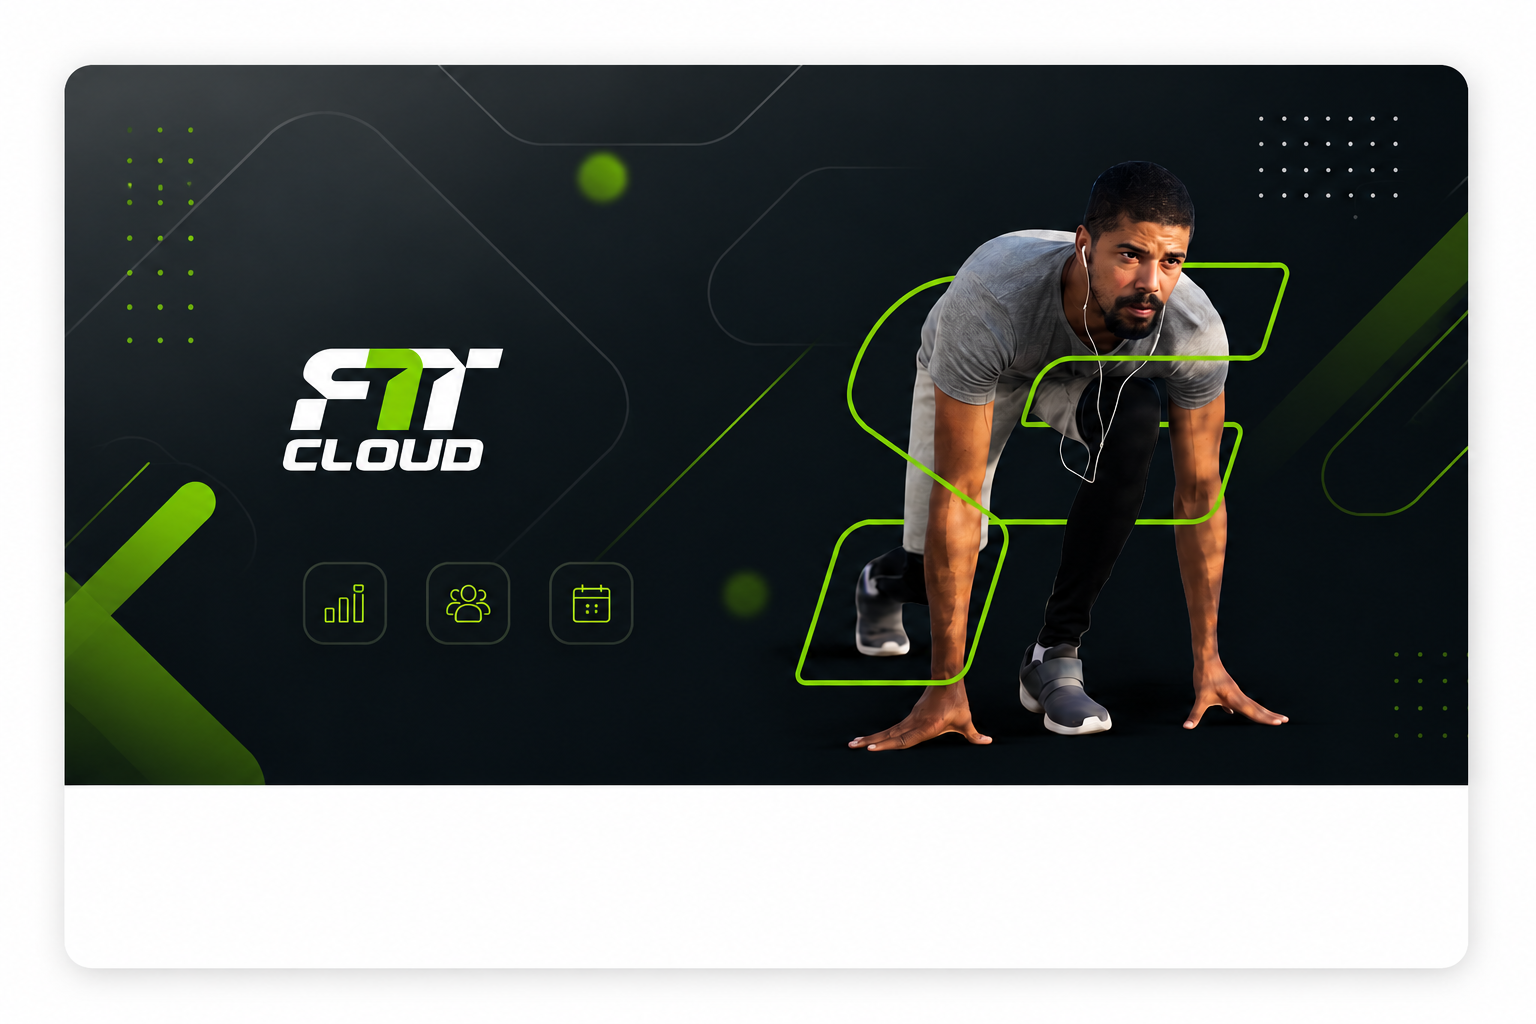
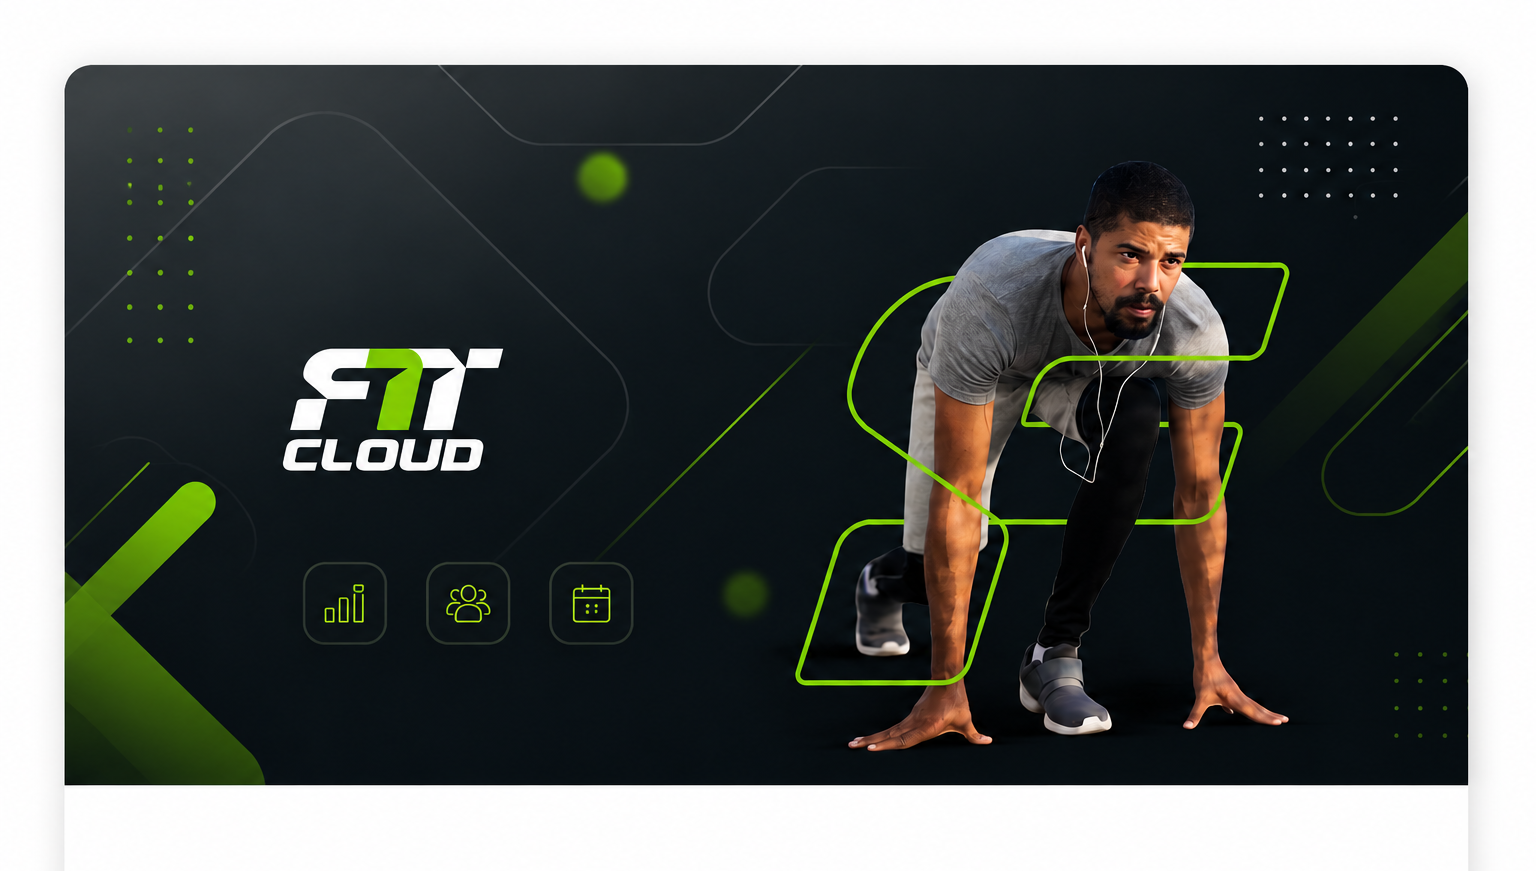
17-6-26

diff --git a/glint/glint/glint/index.html b/glint/glint/glint/index.html
@@ -649,6 +649,28 @@
     </div>
 
     <!-- 13 -->
+<div class="project-card">
+    <div class="project-image">
+        <img src="assets/img/work/ttz-academy.png" alt="TTZ Academy">
+    </div>
+
+    <div class="project-footer" onclick="toggleDetails(this)">
+        <h4>TTZ Academy - Learning Management System</h4>
+        <button class="project-expand-btn">
+            <i class="fal fa-angle-down"></i>
+        </button>
+    </div>
+
+    <div class="project-details">
+        <p>
+            A modern EdTech and Learning Management System (LMS) designed for online course delivery,
+            student engagement, assessments, progress tracking, certification management, and digital learning experiences.
+            Built to provide a scalable and interactive education ecosystem for students, instructors, and administrators.
+        </p>
+    </div>
+</div>
+
+        <!-- 14 -->
     <div class="project-card">
         <div class="project-image">
             <img src="assets/img/work/world-bank.png" alt="World Bank">
@@ -663,11 +685,12 @@
             <p>A large-scale impact evaluation project assessing the effectiveness of an early childhood education program. Led a field team of 96 operators across multiple survey sites.</p>
         </div>
     </div>
+    
 
 </div>
 <br>
-        </div>
-    </div>
+</div>
+</div>
 </div>
 <!--:::::PROJECT AREA END :::::::-->
 

diff --git a/glint/glint/glint/assets/css/style.css b/glint/glint/glint/assets/css/style.css
@@ -1154,6 +1154,7 @@
     transform:rotate(180deg);
 }
 
+
 @media(max-width:991px){
     .project-grid{
         grid-template-columns:1fr;